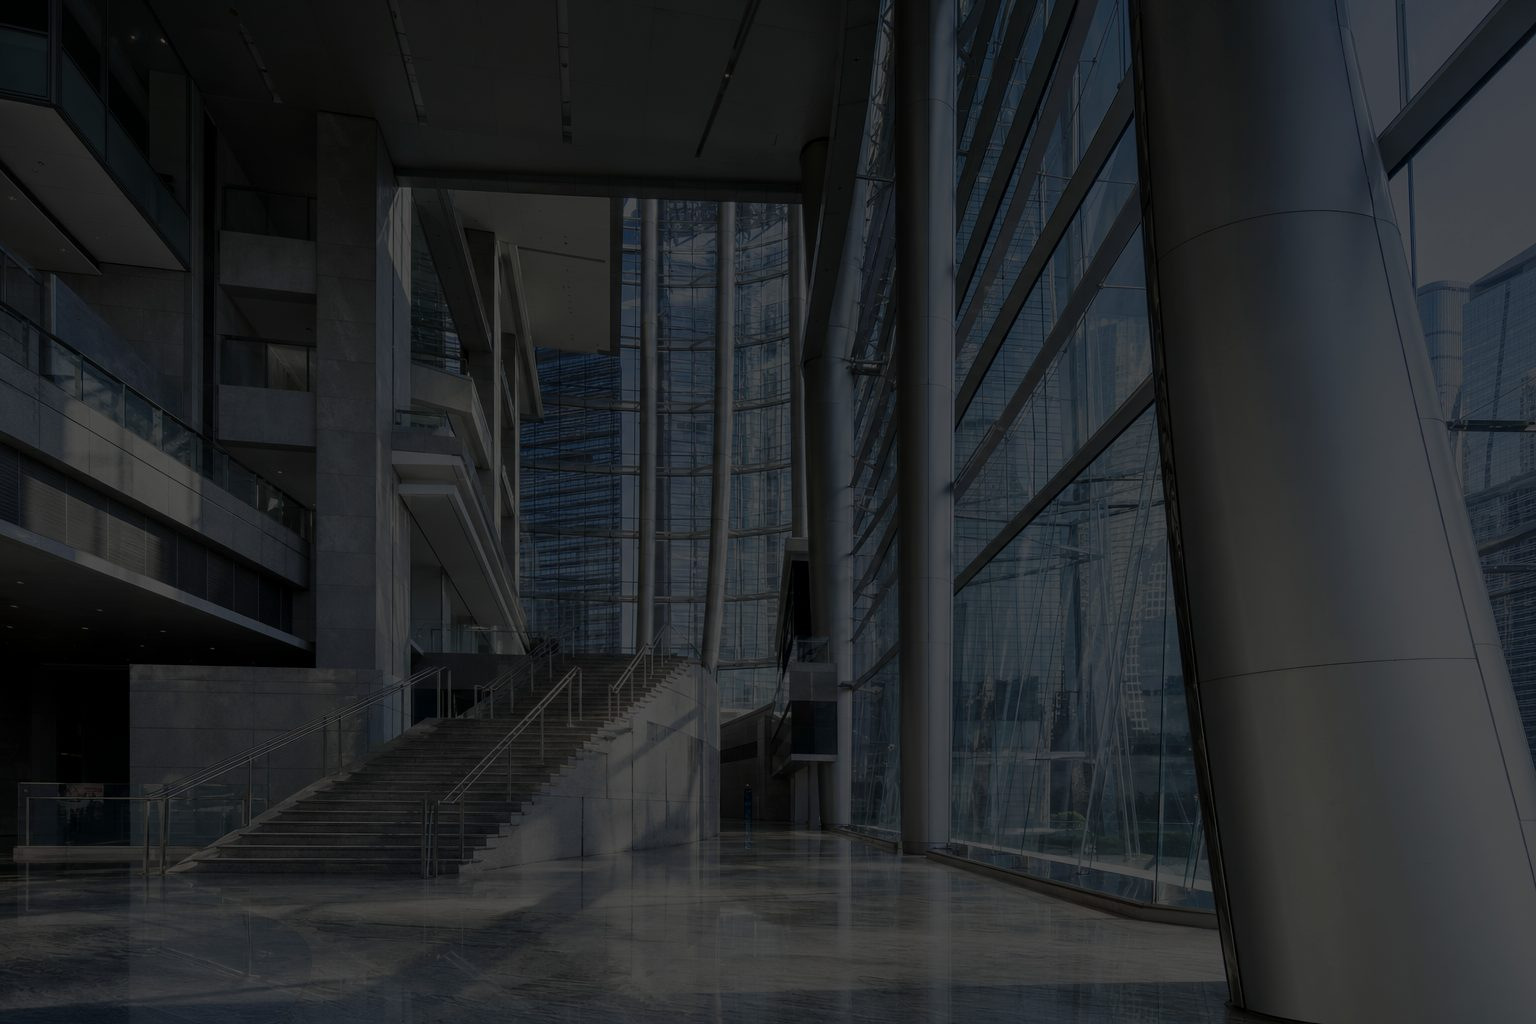
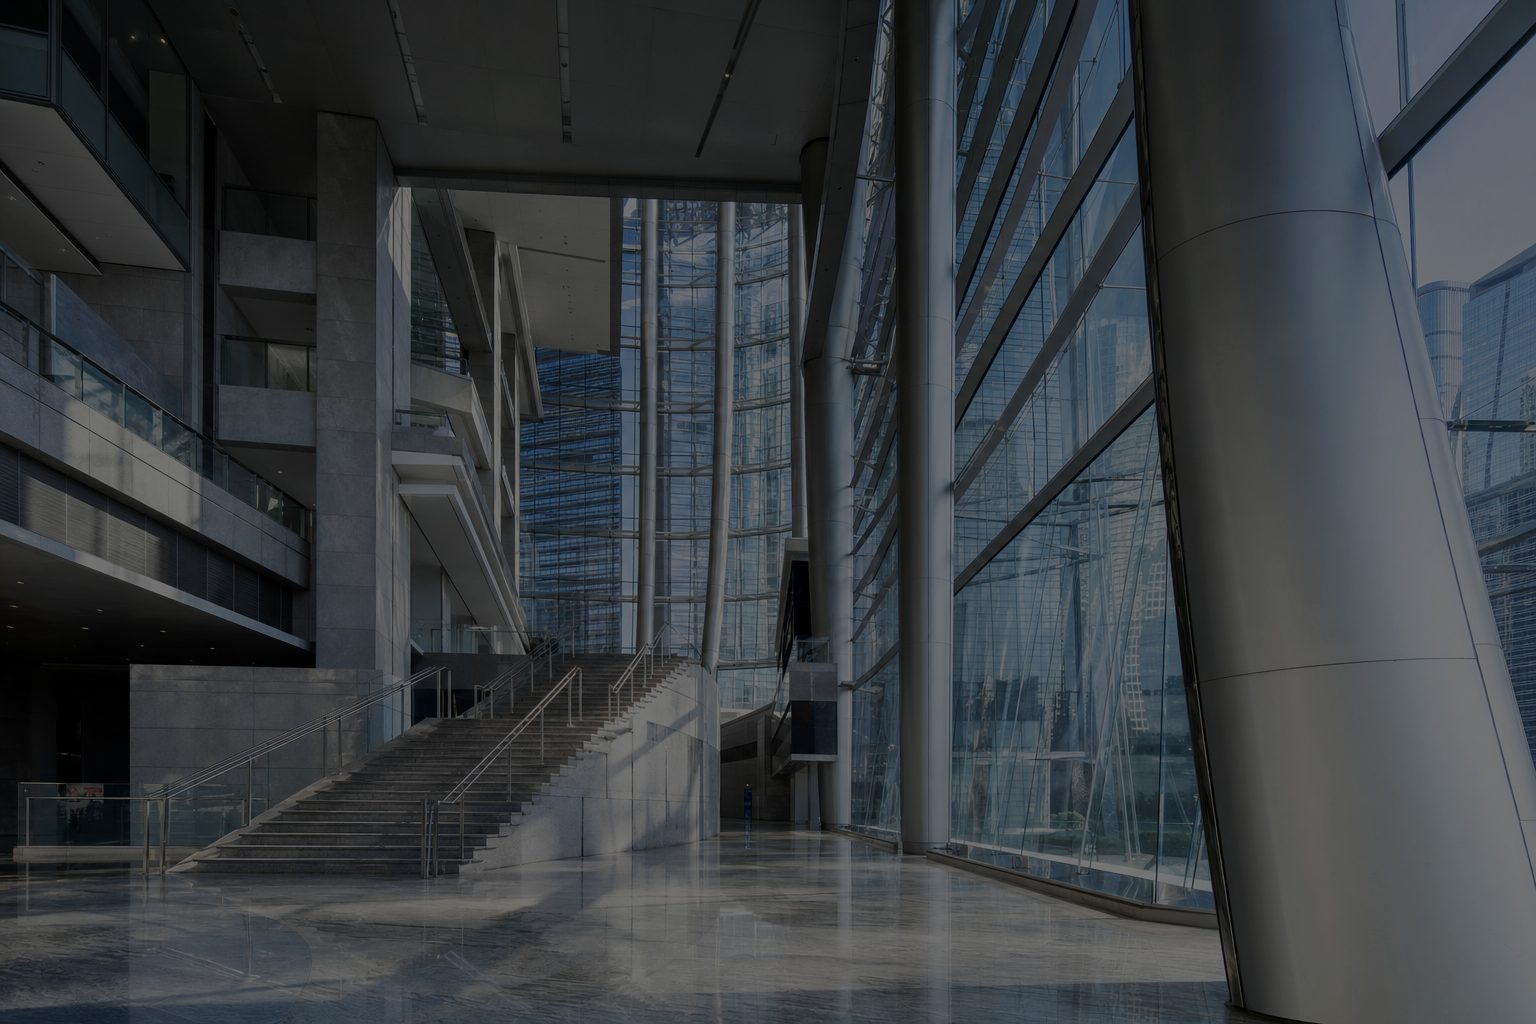
B2B home v38 (Shane review): make Outcomes + Verticals bg images clearer
- Lower the graphite tint on both sections (~.86/.90 -> ~.68/.74) so the dark lobby +
  building images read more clearly while headers/cards stay legible
- Rebrighten building-dark.jpg (0.30 -> 0.46) so the verticals architecture isn't murky

diff --git a/assets/growth-system.css b/assets/growth-system.css
@@ -4166,14 +4166,14 @@ html {
 .b2b-wireframe-page #outcomes {
   background-image:
     radial-gradient(118% 82% at 6% -6%, rgba(252,175,50,.14) 0%, rgba(252,175,50,0) 50%),
-    linear-gradient(160deg, rgba(42,46,51,.86) 0%, rgba(46,50,54,.90) 60%, rgba(40,44,48,.92) 100%),
+    linear-gradient(160deg, rgba(42,46,51,.68) 0%, rgba(46,50,54,.74) 60%, rgba(40,44,48,.80) 100%),
     url("growth/gpt2-b2b-bg-lobby-dark.jpg") !important;
   background-size: cover !important; background-position: center !important;
 }
 .b2b-wireframe-page #verticals {
   background-image:
     radial-gradient(118% 82% at 94% 106%, rgba(252,175,50,.13) 0%, rgba(252,175,50,0) 50%),
-    linear-gradient(160deg, rgba(42,46,51,.85) 0%, rgba(46,50,54,.90) 60%, rgba(40,44,48,.92) 100%),
+    linear-gradient(160deg, rgba(42,46,51,.66) 0%, rgba(46,50,54,.72) 60%, rgba(40,44,48,.80) 100%),
     url("growth/gpt2-b2b-bg-building-dark.jpg") !important;
   background-size: cover !important; background-position: center !important;
 }
